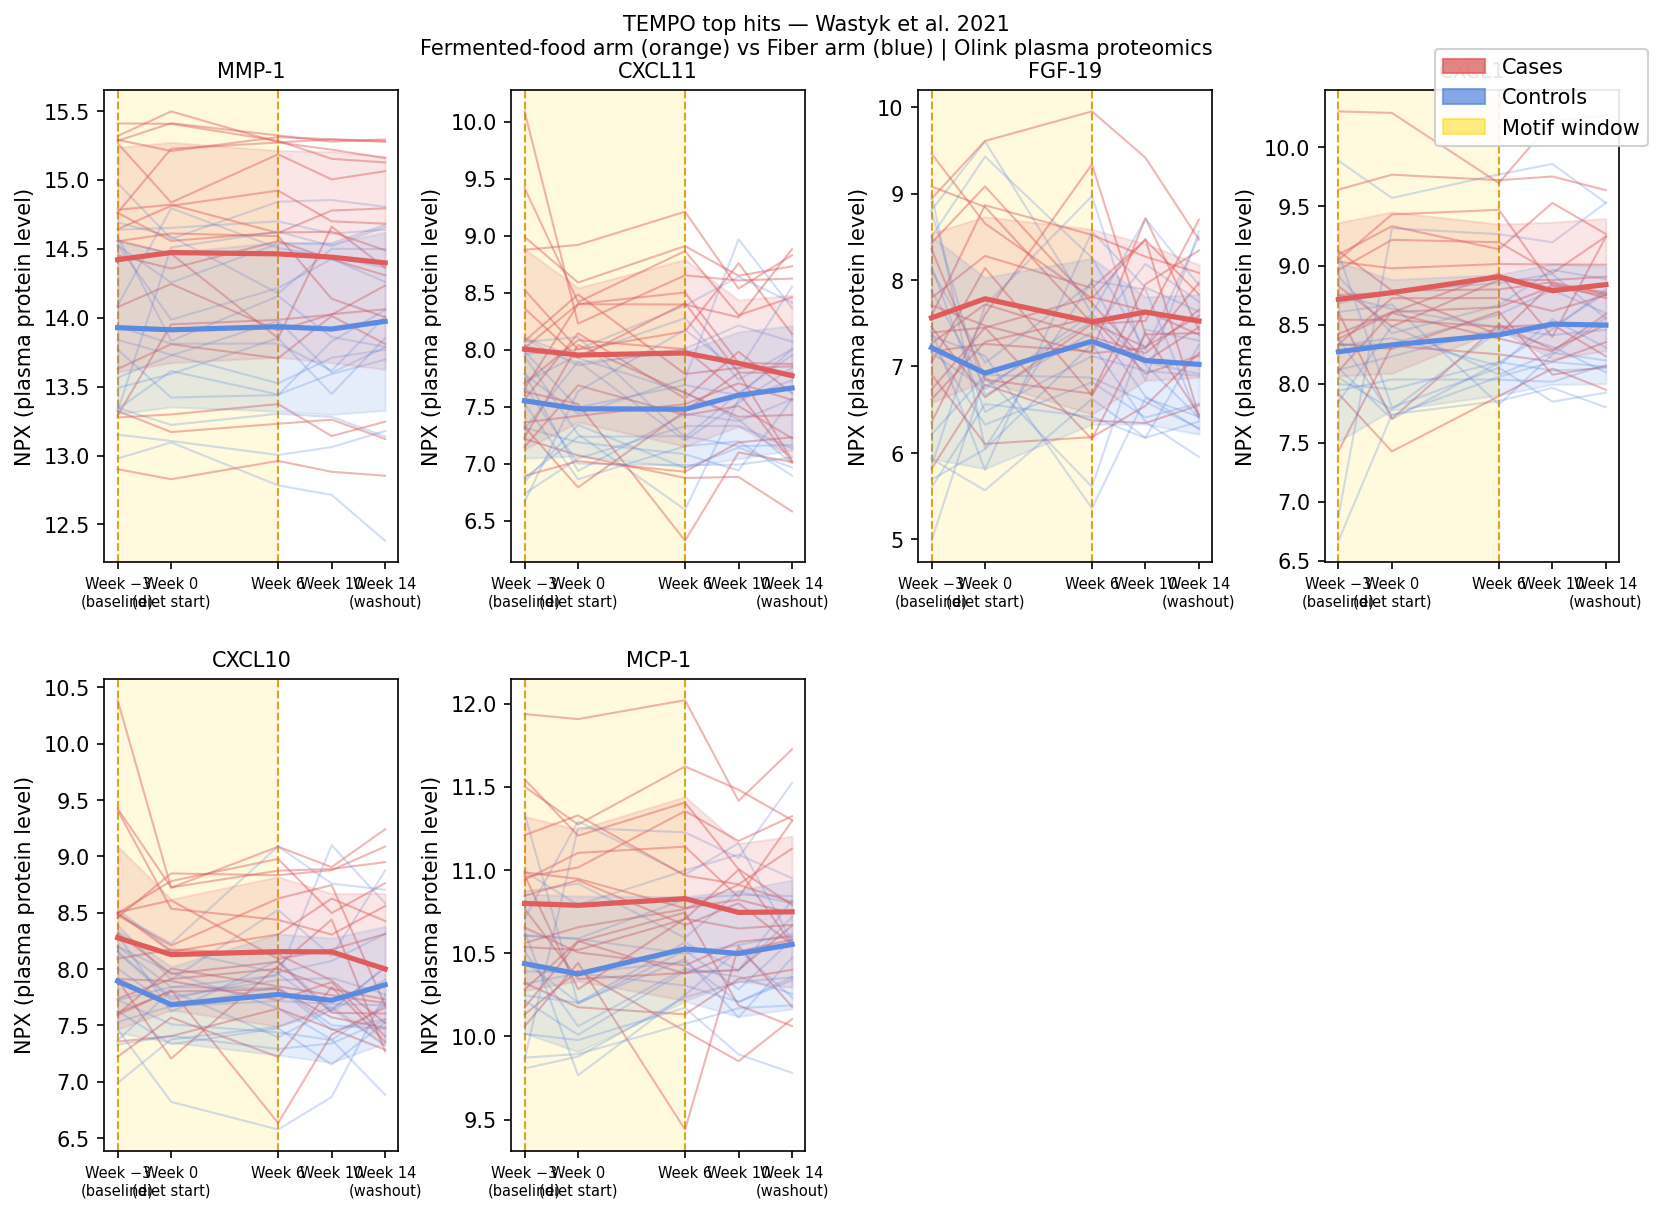
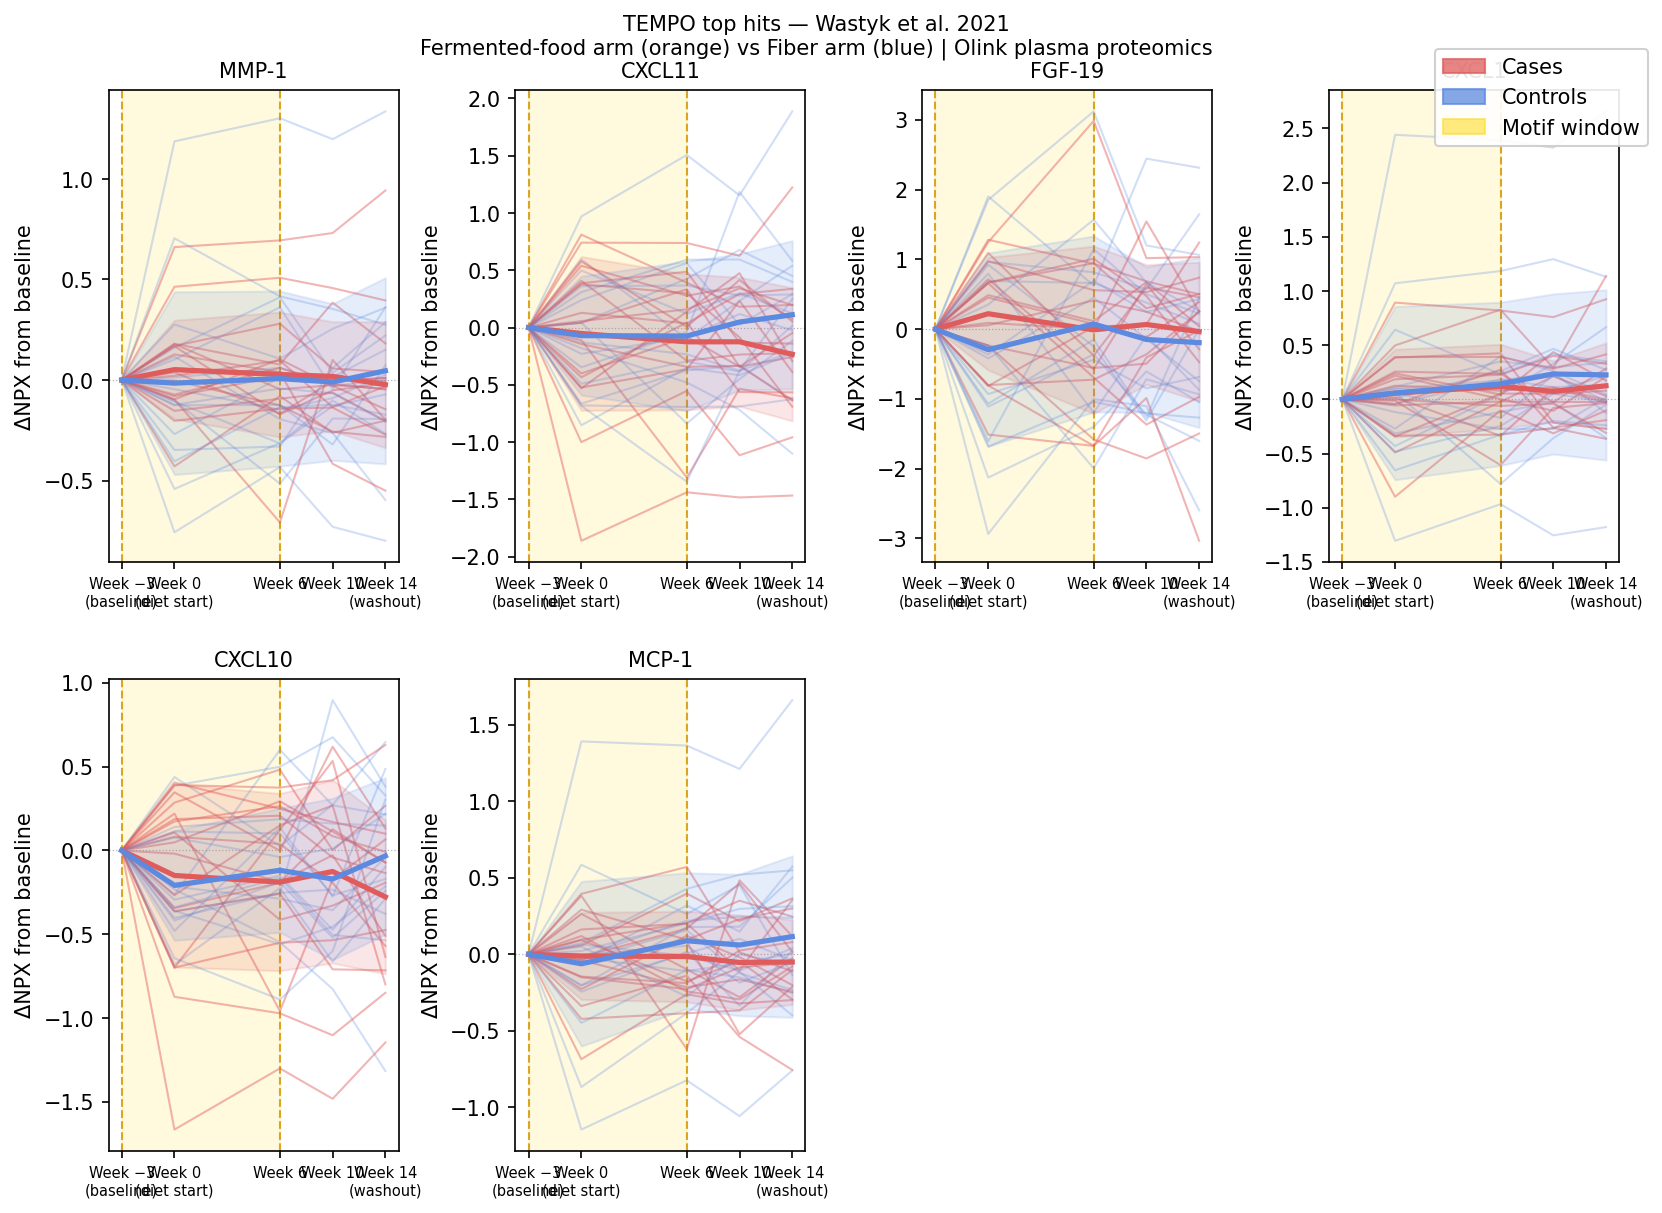
Add baseline_normalize to plot_motifs; apply to Olink visualizations
Raw NPX values have high between-subject baseline variance that swamps
group-level temporal signals when plotted directly. baseline_normalize=True
subtracts each subject's value at the earliest timepoint before plotting,
converting the y-axis to Δvalue-from-baseline and making case/control
divergence immediately visible.

- tempo/viz.py: add baseline_normalize parameter to plot_motifs()
- tests/test_viz.py: 2 new tests for baseline_normalize behaviour
- viz_olink.py: pass baseline_normalize=True for both Fig 1 and Fig 3;
  add zero reference line (axhline) to each subplot
- olink_motifs.png, olink_ribbons.png: regenerated with normalization

diff --git a/viz_olink.py b/viz_olink.py
@@ -42,16 +42,17 @@ top_window = results['motif_window'].iloc[0]   # (1, 4)
 print("Top features:", top_feats)
 print("Motif window:", top_window)
 
-# ── Fig 1: plot_motifs ────────────────────────────────────────────────────────
+# ── Fig 1: plot_motifs (baseline-normalised) ──────────────────────────────────
 fig1 = tempo.plot_motifs(long, features=top_feats, motif_window=top_window,
-                         figsize=(11, 4))
+                         baseline_normalize=True, figsize=(11, 4))
 # Relabel x-ticks with week names on all visible axes
 for ax in [a for a in fig1.axes if a.get_visible()]:
     ax.set_xticks(sorted(long['timepoint'].unique()))
     ax.set_xticklabels([tp_labels[t] for t in sorted(long['timepoint'].unique())],
                        fontsize=7)
-    ax.set_ylabel('NPX (plasma protein level)')
+    ax.set_ylabel('ΔNPX from baseline')
     ax.set_xlabel('')
+    ax.axhline(0, color='gray', lw=0.6, ls=':', zorder=0, alpha=0.6)
 
 fig1.suptitle(
     'TEMPO top hits — Wastyk et al. 2021\n'
@@ -71,16 +72,28 @@ fig2.suptitle(
 fig2.savefig('olink_enrichment.png', dpi=150, bbox_inches='tight')
 print("Saved olink_enrichment.png")
 
-# ── Fig 3: mean ± SD ribbon for top 6 hits ───────────────────────────────────
+# ── Fig 3: mean ± SD ribbon for top 6 hits (baseline-normalised) ─────────────
 case_color = '#e05c5c'
 ctrl_color = '#5c8ae0'
 tps = sorted(long['timepoint'].unique())
+first_tp = tps[0]
+
+# Baseline-normalize: subtract each subject×feature value at the first timepoint
+baselines = (
+    long[long['timepoint'] == first_tp]
+    .set_index(['subject_id', 'feature'])['value']
+)
+long_norm = long.copy()
+long_norm['value'] = (
+    long_norm['value']
+    - long_norm.set_index(['subject_id', 'feature']).index.map(baselines)
+)
 
 fig3, axes = plt.subplots(2, 3, figsize=(13, 7), sharey=False)
 axes_flat = axes.flatten()
 
 for ax, feat in zip(axes_flat, top_feats):
-    feat_df = long[long['feature'] == feat]
+    feat_df = long_norm[long_norm['feature'] == feat]
     row = results[results['feature'] == feat].iloc[0]
     win = row['motif_window']
     p   = row['p_value']
@@ -101,6 +114,8 @@ for ax, feat in zip(axes_flat, top_feats):
         ax.fill_between(means.index, means - stds, means + stds,
                         color=color, alpha=0.18, zorder=3)
 
+    # Zero reference line
+    ax.axhline(0, color='gray', lw=0.6, ls=':', zorder=0, alpha=0.6)
     # Window shading
     ax.axvspan(win[0], win[1], alpha=0.12, color='gold', zorder=1)
     ax.axvline(win[0], color='goldenrod', lw=1.0, ls='--', zorder=1)
@@ -111,7 +126,7 @@ for ax, feat in zip(axes_flat, top_feats):
     ax.set_title(f'{feat}\np={p:.3f}  q={q:.3f}', fontsize=9)
     ax.set_xticks(tps)
     ax.set_xticklabels([tp_labels[t] for t in tps], fontsize=7)
-    ax.set_ylabel('NPX', fontsize=8)
+    ax.set_ylabel('ΔNPX from baseline', fontsize=8)
 
 # Shared legend
 case_p = mpatches.Patch(color=case_color, alpha=0.8, label='Fermented food')

diff --git a/tempo/viz.py b/tempo/viz.py
@@ -34,6 +34,7 @@ def plot_motifs(
     features: Optional[list] = None,
     motif_window: Optional[tuple] = None,
     highlight_cases: bool = True,
+    baseline_normalize: bool = False,
     ax=None,
     figsize: tuple = (10, 4),
 ) -> plt.Figure:
@@ -58,6 +59,11 @@ def plot_motifs(
         If True, draw cases in red and controls in blue. If False, all
         trajectories are drawn in a neutral grey (useful when there is no
         binary outcome column).
+    baseline_normalize : bool
+        If True, subtract each subject's value at the earliest timepoint before
+        plotting. This converts the y-axis to change-from-baseline (Δvalue),
+        which reduces between-subject baseline variance and makes group-level
+        temporal trends more visible. Default False.
     ax : matplotlib.axes.Axes, optional
         Pre-existing axes to draw into. Only used when exactly one feature is
         requested; ignored for multi-feature layouts.
@@ -93,10 +99,19 @@ def plot_motifs(
         axes_flat = axes_flat[:n_feats]
 
     timepoints = sorted(df["timepoint"].unique())
+    first_tp = timepoints[0]
 
     # ── One subplot per feature ──────────────────────────────────────────────
     for ax_, feat in zip(axes_flat, features):
-        feat_df = df[df["feature"] == feat]
+        feat_df = df[df["feature"] == feat].copy()
+
+        # Baseline-normalize: subtract each subject's value at the first timepoint
+        if baseline_normalize:
+            baselines = (
+                feat_df[feat_df["timepoint"] == first_tp]
+                .set_index("subject_id")["value"]
+            )
+            feat_df["value"] = feat_df["value"] - feat_df["subject_id"].map(baselines)
 
         # Individual subject lines
         for _, grp in feat_df.groupby("subject_id"):
@@ -128,7 +143,7 @@ def plot_motifs(
 
         ax_.set_title(feat, fontsize=10)
         ax_.set_xlabel("Timepoint")
-        ax_.set_ylabel("Value")
+        ax_.set_ylabel("Δ Value (from baseline)" if baseline_normalize else "Value")
         ax_.set_xticks(timepoints)
 
     # ── Shared legend ────────────────────────────────────────────────────────

diff --git a/tests/test_viz.py b/tests/test_viz.py
@@ -141,6 +141,26 @@ class TestPlotMotifs:
         assert isinstance(fig, matplotlib.figure.Figure)
         plt.close(fig)
 
+    def test_baseline_normalize_anchors_first_tp_at_zero(self, df_cont):
+        """With baseline_normalize=True, all subjects should have value=0 at the first timepoint."""
+        feat = sorted(df_cont["feature"].unique())[0]
+        fig = plot_motifs(df_cont, features=[feat], baseline_normalize=True)
+        # Verify via the y-axis label
+        ax = [a for a in fig.axes if a.get_visible()][0]
+        assert "baseline" in ax.get_ylabel().lower()
+        plt.close(fig)
+
+    def test_baseline_normalize_ylabel(self, df_cont):
+        """baseline_normalize should change the y-axis label."""
+        feat = sorted(df_cont["feature"].unique())[0]
+        fig_raw  = plot_motifs(df_cont, features=[feat], baseline_normalize=False)
+        fig_norm = plot_motifs(df_cont, features=[feat], baseline_normalize=True)
+        ax_raw  = [a for a in fig_raw.axes  if a.get_visible()][0]
+        ax_norm = [a for a in fig_norm.axes if a.get_visible()][0]
+        assert ax_raw.get_ylabel() != ax_norm.get_ylabel()
+        plt.close(fig_raw)
+        plt.close(fig_norm)
+
 
 # ---------------------------------------------------------------------------
 # plot_enrichment
